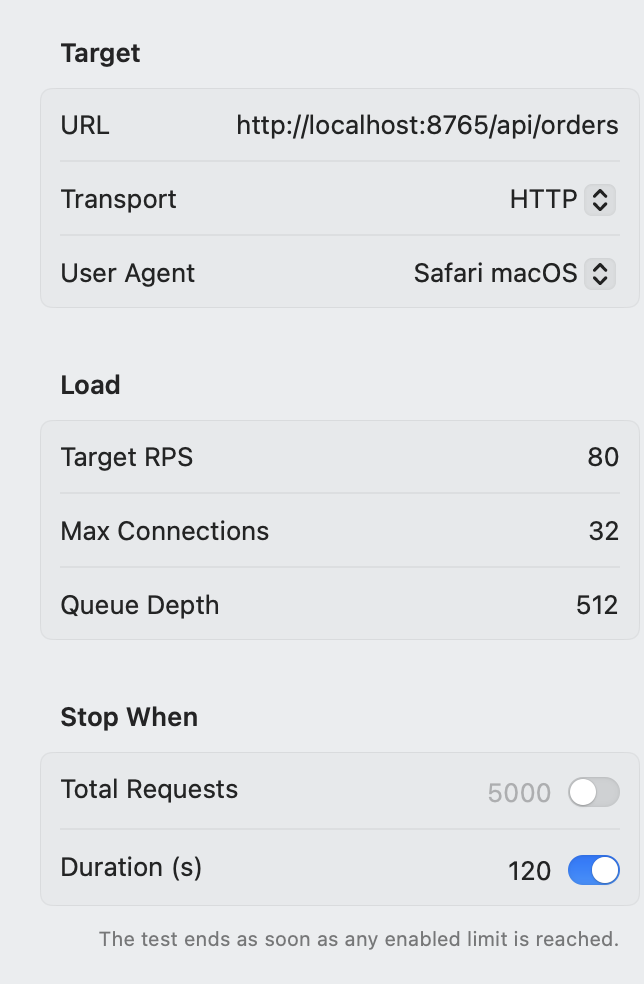
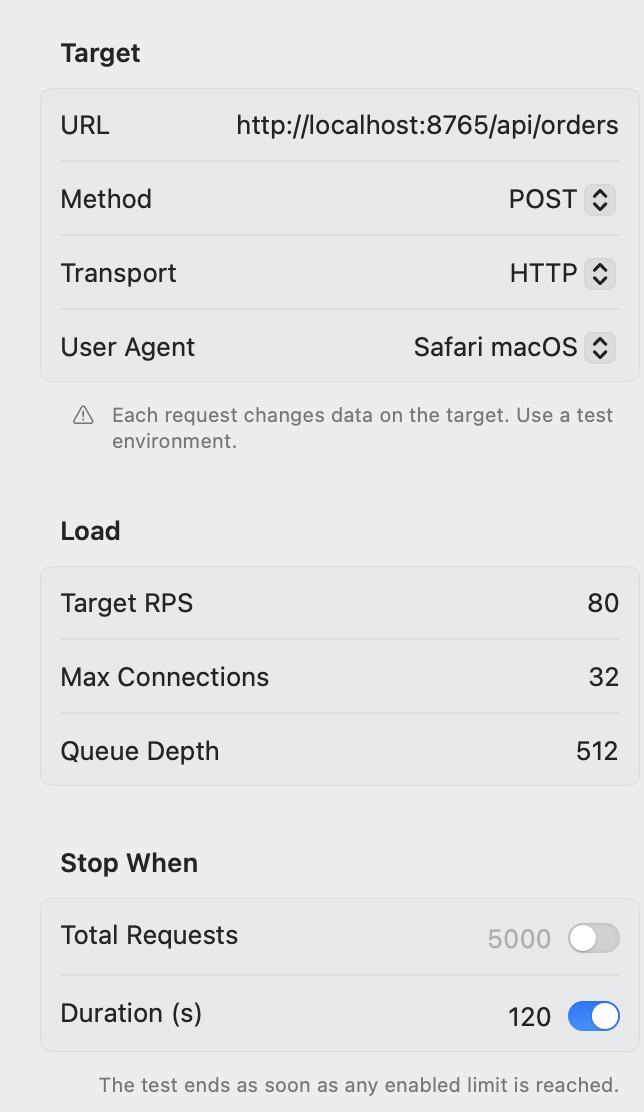
docs: Update README and screenshots for v.13

diff --git a/README.md b/README.md
@@ -1,6 +1,6 @@
-# Pace Maker v.12
+# Pace Maker v.13
 
-Native HTTP load testing for macOS — fire configurable traffic at any endpoint and watch it respond in real time.
+Native HTTP load testing for macOS — fire configurable traffic with any HTTP method at any endpoint and watch it respond in real time.
 
 ![Pace Maker running a load test: live chart with the settings inspector open](images/main_window.png)
 
@@ -27,9 +27,17 @@ The chart plots **Sent**, **Received**, **Failures**, and **Error Rate** as sepa
 
 ### ⚙ Settings inspector — dial in exactly how hard to push
 
-Every setting lives in one native inspector beside the chart: the target URL, transport and User-Agent preset; the total **target RPS**, maximum connections and backpressure queue depth; and stop conditions — total requests, a duration, or both. Toggle it from the toolbar; your last configuration is remembered between launches.
+Every setting lives in one native inspector beside the chart: the target URL, **HTTP method** and User-Agent preset; the total **target RPS**, maximum connections and backpressure queue depth; and stop conditions — total requests, a duration, or both. Toggle it from the toolbar; your last configuration is remembered between launches.
 
-<img src="images/settings.png" alt="Settings inspector with Target, Load and Stop When sections" width="322">
+Pick any method — **GET, HEAD, POST, PUT, PATCH, DELETE, or OPTIONS**. Methods that change data show a reminder to point them at a test environment.
+
+<img src="images/settings.png" alt="Settings inspector with the POST method selected" width="322">
+
+### ✍ Load — compose the request body
+
+The **Load** tab, next to Chart, Stats, and Texts, holds the body sent with every POST, PUT, PATCH, or DELETE request. Pick a content type (JSON, form, plain text, or XML), write the body in a roomy monospaced editor with **JSON and XML syntax highlighting** that keeps your quotes and dashes exactly as typed, and watch the live size and JSON check below it. A Content-Type you set under Headers takes precedence. For GET, HEAD, and OPTIONS the tab explains that no body is sent and offers a one-click switch to POST.
+
+![Load tab with a JSON request body](images/load.png)
 
 ### 📊 Stats — the numbers that matter
 
@@ -39,7 +47,7 @@ A grid of live stat cards: elapsed time, sent, succeeded, failed, and shed reque
 
 ### 🔍 Request & response viewer
 
-See the exact request being fired — method, path, headers, and User-Agent — and inspect live responses as they come back, status line and headers included. Toggle **Sliding** to keep a rolling window of the most recent responses, cap how many you retain, and turn on **Truncated** to collapse long bodies.
+See the exact request being fired — method, path, headers, User-Agent, and body — and inspect live responses as they come back, status line and headers included. Toggle **Sliding** to keep a rolling window of the most recent responses, cap how many you retain, and turn on **Truncated** to collapse long bodies.
 
 ![Texts view showing the request and recent responses](images/texts.png)
 
@@ -80,7 +88,7 @@ HTTP load testing ships today. The architecture is already protocol-agnostic, wi
 
 1. [Download the latest release](https://github.com/eugenezimin/Pace-Maker/releases/latest) and open **Pace Maker**.
 2. Enter a target URL in the settings inspector.
-3. Set your target RPS and maximum connections.
+3. Choose the HTTP method, then set your target RPS and maximum connections. For POST, PUT, PATCH, or DELETE, write the body in the **Load** tab.
 4. Choose a stop condition — total requests, a duration, or both.
 5. Press **Start** (⌘R) and watch the chart.
 
